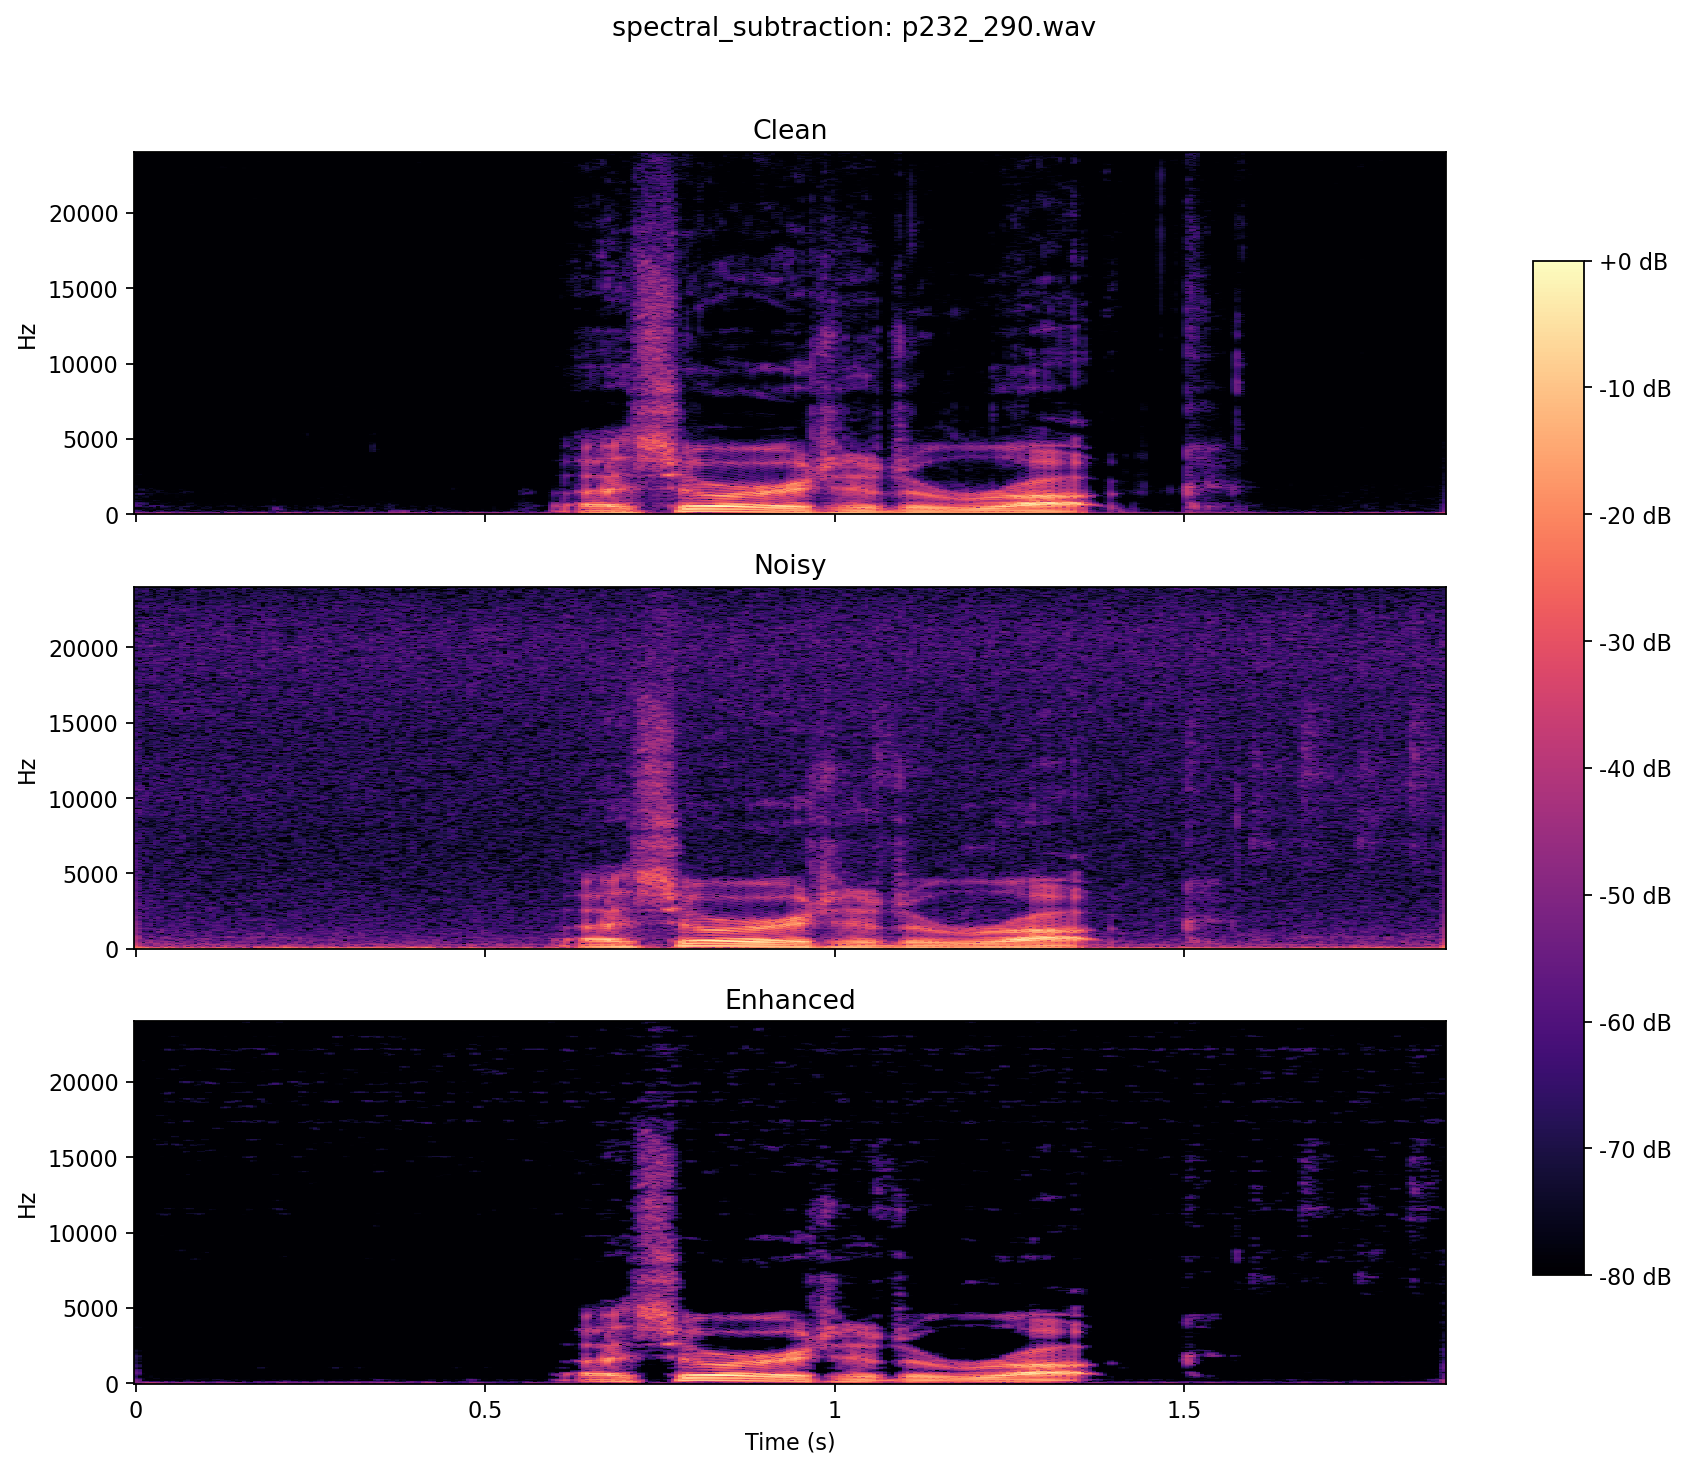
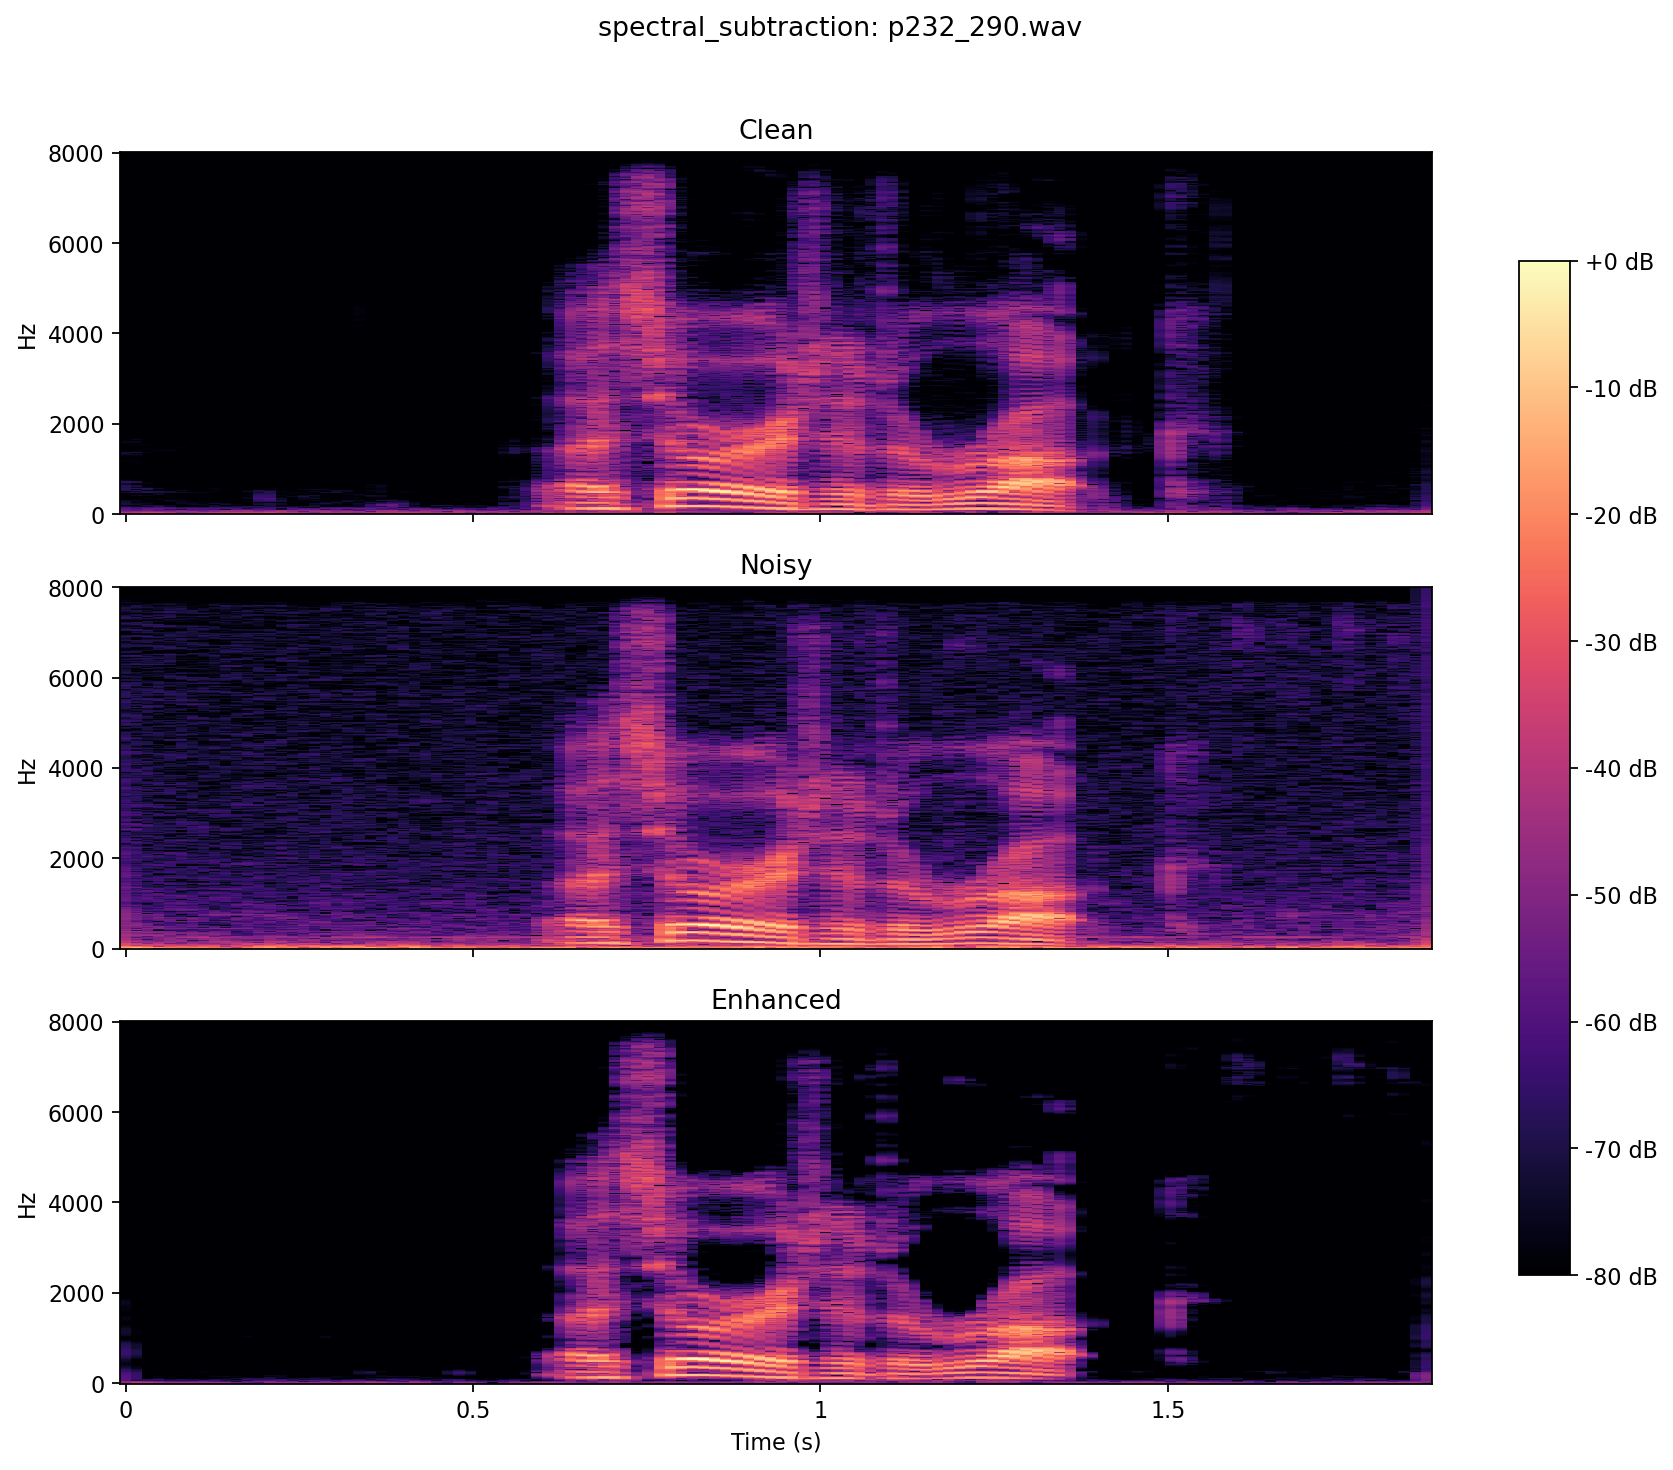
修改可视化图片

diff --git a/scripts/make_figures.py b/scripts/make_figures.py
@@ -21,7 +21,12 @@ def parse_args() -> argparse.Namespace:
     parser.add_argument("--methods", nargs="+", default=None, help="Output method directories to plot.")
     parser.add_argument("--files", nargs="+", default=None, help="Specific wav file names to visualize, such as p232_003.wav.")
     parser.add_argument("--num-files", type=int, default=3)
-    parser.add_argument("--target-sr", type=int, default=None)
+    parser.add_argument(
+        "--target-sr",
+        type=int,
+        default=16000,
+        help="Sample rate used for loading audio before visualization. Defaults to 16000 Hz.",
+    )
     return parser.parse_args()
 
 

diff --git a/README.md b/README.md
@@ -8,7 +8,7 @@
 - `results/final_results.csv`: 每条语音的详细指标
 - `results/final_summary.csv`: 各方法平均指标
 - `results/parameter_search.csv`: 参数搜索结果
-- `figures/`: 最终展示用波形图和语谱图
+- `figures/`: 最终展示用波形图和语谱图，只包含 3 条代表性样本
 - `docs/experiment_report.md`: 实验报告
 - `docs/code_structure.md`: 代码结构说明
 
@@ -80,17 +80,21 @@ python scripts/run_parameter_search.py
 python scripts/evaluate_results.py
 ```
 
-生成波形和语谱图对比：
+生成最终展示用波形图和语谱图：
 
 ```powershell
-python scripts/make_figures.py
+python scripts/make_figures.py --files p232_290.wav p257_098.wav p232_006.wav --methods spectral_subtraction frequency_masking wavelet_denoise --target-sr 16000
 ```
 
-只生成最终展示图：
+该命令只生成 3 条代表性样本，并先将音频重采样到 `16000 Hz` 再绘图。
+
+如需重新生成其他样本，可改 `--files` 后面的文件名。
 
 ```powershell
-python scripts/make_figures.py --files p232_290.wav p257_098.wav p232_006.wav --methods spectral_subtraction frequency_masking wavelet_denoise
+python scripts/make_figures.py --files file1.wav file2.wav --methods spectral_subtraction frequency_masking wavelet_denoise --target-sr 16000
 ```
+
+如果需要保留原始 `48000 Hz` 采样率作图，可显式传入 `--target-sr 48000`。
 
 ## Final Results
 
@@ -130,6 +134,6 @@ python scripts/make_figures.py --files p232_290.wav p257_098.wav p232_006.wav --
 - `results/final_results.csv`: 每条语音的详细指标
 - `results/final_summary.csv`: 各方法的平均指标
 - `results/parameter_search.csv`: 参数搜索结果
-- `figures/`: 波形和语谱图对比图（可根据此写论文和ppt）
+- `figures/`: 最终展示用波形图和语谱图（3 条样本 x 3 种方法）
 - `docs/experiment_report.md`: 实验报告（可根据此写论文和ppt）
 - `docs/code_structure.md`: 代码结构说明

diff --git a/docs/experiment_report.md b/docs/experiment_report.md
@@ -141,8 +141,10 @@ results/final_summary.csv
 运行：
 
 ```powershell
-python scripts/make_figures.py
+python scripts/make_figures.py --files p232_290.wav p257_098.wav p232_006.wav --methods spectral_subtraction frequency_masking wavelet_denoise --target-sr 16000
 ```
+
+该命令只为最终展示选中的 3 条代表性样本生成图像，并先将音频重采样到 `16000 Hz`。
 
 输出：
 
@@ -163,11 +165,13 @@ figures/spectrogram_comparison/
 - `p257_098.wav`: 强噪声样本，谱减法 `SNR Improvement=16.994 dB`，频域掩蔽 `SNR Improvement=15.128 dB`
 - `p232_006.wav`: 局限性样本，谱减法 `SNR Improvement=-0.870 dB`，而频域掩蔽仍有 `0.808 dB` 提升
 
-推荐重新生成最终 PPT 用图：
+重新生成最终 PPT 用图的完整命令：
 
 ```powershell
-python scripts/make_figures.py --files p232_290.wav p257_098.wav p232_006.wav --methods spectral_subtraction frequency_masking wavelet_denoise
+python scripts/make_figures.py --files p232_290.wav p257_098.wav p232_006.wav --methods spectral_subtraction frequency_masking wavelet_denoise --target-sr 16000
 ```
+
+如果需要按原始数据的 `48000 Hz` 采样率作图，可追加 `--target-sr 48000`。
 
 如果希望 `figures/` 目录中只保留最终展示图，可以先删除旧的 `figures/` 目录，再运行上面的命令。
 
@@ -211,5 +215,5 @@ PPT 中优先展示以下语谱图：
 pip install -r requirements.txt
 python scripts/run_parameter_search.py
 python scripts/run_all_methods.py
-python scripts/make_figures.py --files p232_290.wav p257_098.wav p232_006.wav --methods spectral_subtraction frequency_masking wavelet_denoise
+python scripts/make_figures.py --files p232_290.wav p257_098.wav p232_006.wav --methods spectral_subtraction frequency_masking wavelet_denoise --target-sr 16000
 ```

diff --git a/docs/code_structure.md b/docs/code_structure.md
@@ -142,7 +142,15 @@ results/reevaluated_summary.csv
 
 用途：根据 `outputs/` 中的增强结果生成图像。
 
-支持两种常用模式：
+默认会以 `16000 Hz` 加载音频后再绘图，保证可视化采样率统一。
+
+当前仓库中的 `figures/` 只保留最终展示用的 3 条代表性样本，对应命令为：
+
+```powershell
+python scripts/make_figures.py --files p232_290.wav p257_098.wav p232_006.wav --methods spectral_subtraction frequency_masking wavelet_denoise --target-sr 16000
+```
+
+脚本仍支持两种生成模式：
 
 - `--num-files N`: 按顺序生成前 N 条样本的图
 - `--files file1.wav file2.wav ...`: 只为指定样本生成图，适合最终 PPT 筛图
@@ -160,5 +168,4 @@ figures/spectrogram_comparison/
 2. 运行 `python scripts/run_parameter_search.py` 查看参数效果。
 3. 根据参数搜索结果修改 `src/spoken_denoise/methods.py` 的默认参数。
 4. 运行 `python scripts/run_all_methods.py` 生成最终 wav 和指标。
-5. 运行 `python scripts/make_figures.py` 生成 PPT 图。
-
+5. 运行 `python scripts/make_figures.py --files p232_290.wav p257_098.wav p232_006.wav --methods spectral_subtraction frequency_masking wavelet_denoise --target-sr 16000` 生成 PPT 图。
